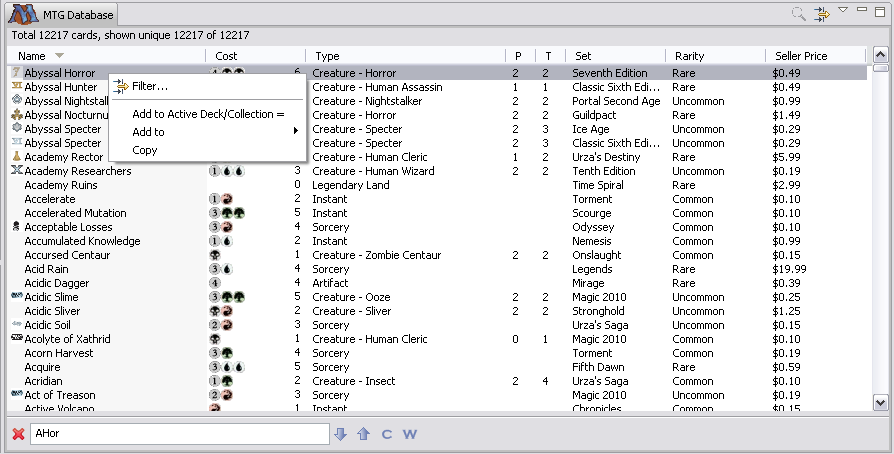
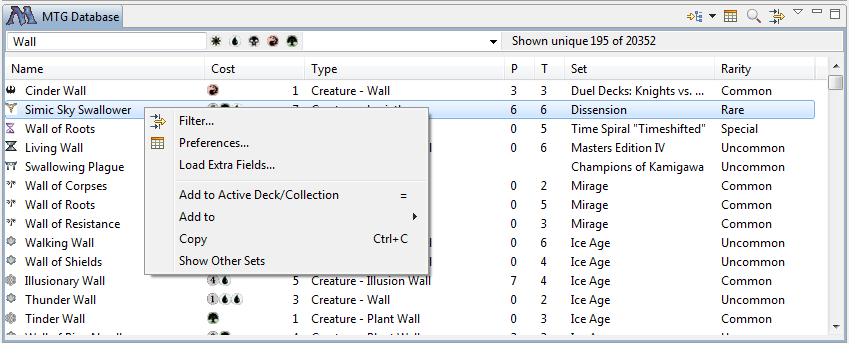
updated to generate toc automatically

diff --git a/com.reflexit.magiccards.help/html/gettingstarted/basic_tutorial.html b/com.reflexit.magiccards.help/html/gettingstarted/basic_tutorial.html
@@ -8,21 +8,30 @@
 
 <body>
 <h1>Basic Tutorial</h1>
+<h2> Workspace </h2>
+Workspace is the directory where Magic Assistant store all its data, in version 1.1 and below it is directory where
+application itself is unzippped, in 1.2 it is in your home directory, in subdirectory MagicAssistantWorkspace.
+Check installation instructions if you want to change it.
+
 <h2> Overview </h2>
 Magic Assistant is application for browsing "Magic: The Gathering" &#0153; cards 
 (see <a href="http://www.wizards.com/magic">official wizards website</a>) 
-and organising cards into decks and library collections.
+and organising cards into decks and library collections. Also contains tournament organizer for MTG in-house tournaments.
 <p/>
 For more information on Magic Assistant check <a href="http://mtgbrowser.sourceforge.net">Magic Assistant website</a>.
 <p/>
 
-Magic perspective contains several views: <br/>
+App contains two distinct window sets, called perspective. Default is "Card Organizer", you can also switch to
+"Tournament Organizer" from Windows menu.
+
+Car Organizer perspective contains several views: <br/>
 <a href="../reference/views.html#viewmagicdb">MTG Database</a> - To browse existing mtg cards, <br/> 
 <a href="../reference/views.html#viewcard">Card Info</a> - To view detailed card information and picture,<br/> 
 <a href="../reference/views.html#viewcardnav">Card Navigator</a> - To browse your own decks and collections, <br/> 
-<a href="../reference/views.html#viewcol">My Cards View</a> - To browse all your personal cards, <br/> 
-<a href="../reference/views.html#viewdeck">Deck view</a>s - To look at the cards in each deck or collection individually, and run deck analysis tools, <br>
-<a href="../reference/views.html#viewprintings">Printings</a> - To show sets in which selected card is available. <br/> 
+<a href="../reference/views.html#viewcol">My Cards</a> - To browse all your personal cards, <br/> 
+<a href="../reference/views.html#viewdeck">Deck</a>s - To look at the cards in each deck or collection individually, and run deck analysis tools, <br>
+<a href="../reference/views.html#viewprintings">Printings</a> - To show sets in which selected card is available. <br/>
+<a href="../reference/views.html#viewdraw">Draw</a> - Show subset of cards in deck to emulate draw (hand of seven random cards from a deck) <br/>  
 <p/>
 
 You can changes layout of your views but dragging them around by the header. If you get lost you can reset to original layout using 
@@ -35,8 +44,11 @@ is invoked by "mouse right click".
 <h2>Updating Magic Card Database Online</h2>
 
 MTG Database View shows all available cards. By default it will only
-show one instance of a card with the same name for the latest edition.
-Cards for older editions can be downloaded from the internet, see <a href="../tasks/updatingdb.html">updating database</a> section.
+show cards witch pre-loaded with application. It can quickly be out of data, 
+to keep database in sync you have to perform cards updates. In version 1.2 and above
+it will check for update automatically.
+
+To update cards manually, see <a href="../tasks/updatingdb.html">updating database</a> section.
 
 
 <h2> Browsing and Searching </h2>
@@ -50,10 +62,12 @@ You can filter cards in the view by opening filter. Filter action is on view too
 You can select one of more criteria from the filters.
 See details in 
 <a href="../reference/filter_dialog.html">Filter Dialog</a> reference.
+You can also filter cards by name, type and colour using quick filter - the bar on top of card tables (since 1.2).
 
 <p>
 You can bring up search control using Ctrl-F key or using view menu "Find...".
-It allows you to find a card in the view by name (or part of name). 
+It allows you to find a card in the view by name (or part of name). Compare to filter it does not remove the cards from
+the list.
 See details in 
 <a href="../reference/search_bar.html">Search Bar</a> reference.
 <p/>
@@ -64,17 +78,18 @@ reference.
 <h2> Building a deck </h2>
 To build a deck you need <a href="../reference/views.html#viewcardnav">Card Navigator</a> view,
 from there you can add a new deck and place it in the desired folder. After deck is created you can populate
-it by moving cards from database or from other decks or collection, or using deck import.
+it by moving cards from database or from other decks or collection, or using deck Import.
 See more details in <a href="../tasks/creatingdeck.html">Creating and Populating a Deck or Collection</a>.
 <p/>
-You can edit cards in your decks and collections. To edit card properties you can select or more cards from the
+You can edit cards in your decks and collections. To edit card properties you can select one or more cards from the
 table and choose "Edit..." from context menu (or double click on a card). Editable card properties currently are:
  count, comment, ownership and price.
 <p/>
 You can analyse you deck using some tools: Mana Curve, Colors, Card Types, Legality - these are tabs at the bottom of the
 deck view. Also you can group cards to achieve same statistics in the main table tab using Group By menu (from the view menu).
+<br>
 Draw analyzer is available from the view context menu.
-
+<br>
 Mana Curve - shows chart of your deck mana curve (number of cards vs cost) for spells (land is not there).
 Average bars - is normal distribution of cards in average deck adjusted to number of cards in your deck (hardcoded in program, it is not based on your decks) . 
 

diff --git a/com.reflexit.magiccards.help/toc.html b/com.reflexit.magiccards.help/toc.html
@@ -1,0 +1,29 @@
+<html><head><META http-equiv="Content-Type" content="text/html; charset=ISO-8859-1"></head><body><h1>Magic Assistant</h1><ul>
+   <li>Getting Started<ul>
+ 	<li><a href="html/gettingstarted/basic_tutorial.html">Basic Tutorial</a></li>
+   </ul></li>
+   <li>Tasks<ul>
+	<li><a href="html/tasks/browsing.html">Browsing cards</a></li>  
+	<li><a href="html/tasks/creatingdeck.html#create_deck">Creating a new Deck</a></li> 
+	<li><a href="html/tasks/creatingdeck.html#populate_manual">Populating a deck or collection manually</a></li>
+	<li><a href="html/tasks/creatingdeck.html#import_deck">Importing a deck or collection</a></li> 
+	<li><a href="html/tasks/updatingdb.html">Updating magic card Database</a></li>
+	<li><a href="html/tasks/loadingprices.html">Loading Seller's Price</a></li>
+   </ul></li>
+    <li>Reference<ul>
+	<li><a href="html/reference/workbench.html">Workbench</a><ul> 
+	    <li><a href="html/reference/workbench.html#concepts">Concepts</a></li>
+		<li><a href="html/reference/workbench.html#menu">Main Menu</a></li>
+		<li><a href="html/reference/workbench.html#new">New Menu</a></li>  
+	</ul></li>
+	<li><a href="html/reference/views.html">Views</a><ul>
+		<li><a href="html/reference/views.html#viewmagicdb">MTG Database</a></li>
+		<li><a href="html/reference/views.html#viewcol">My Cards</a></li>
+		<li><a href="html/reference/views.html#viewdeck">Deck</a></li> 
+		<li><a href="html/reference/views.html#viewcard">Card Info</a></li> 
+		<li><a href="html/reference/views.html#viewcardnav">Cadr Navigator</a></li> 
+	</ul></li>
+	<li><a href="html/reference/preferences.html">Preferences</a></li>
+   </ul></li>
+   <li><a href="http://www.wizards.com/Magic/TCG/Article.aspx?x=magic/rules">Magic: The Gathering Rules Online</a></li>
+</ul></body></html>

diff --git a/com.reflexit.magiccards.help/html/reference/views.html b/com.reflexit.magiccards.help/html/reference/views.html
@@ -183,5 +183,13 @@ To switch between these two modes press "M" looking button.
 <p>
 The globe looking button is "Update printings from the web", it will synchronize local database copy with gatherer database for selected card.
 </p>
+
+<h2><a name="viewdraw"/>Draw View</h2>
+Show subset of cards in deck to emulate draw (hand of seven random cards from a deck).
+To open the view, select "Emulate Draw" action from the view menu.
+
+<p>
+<img src="../screenshots/views/draw.png" alt="Draw view"/>
+</p>
 </body>
 </html>
